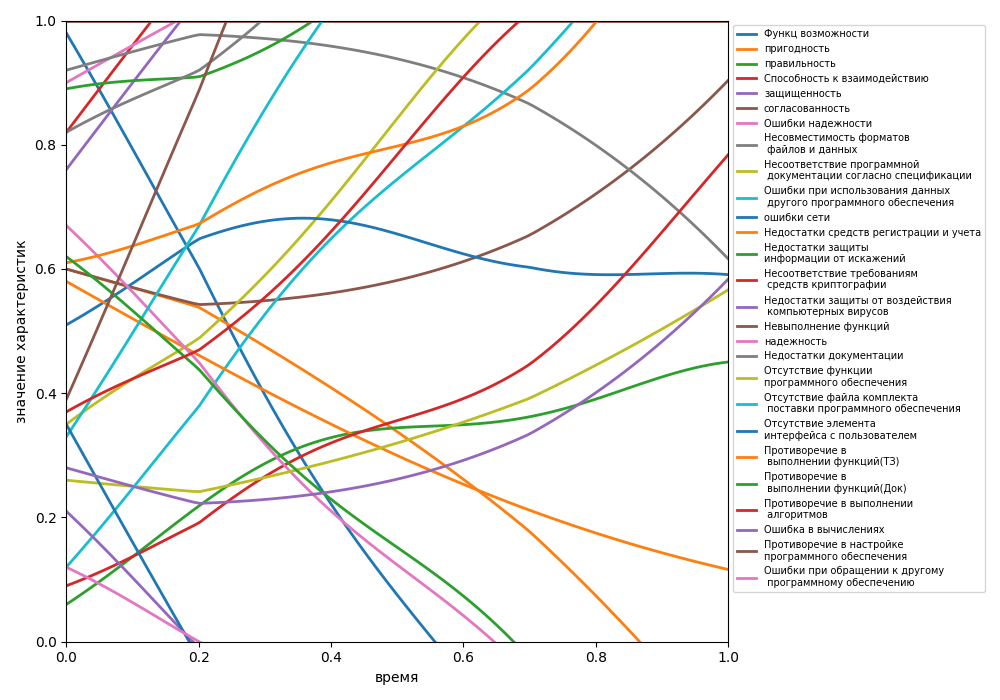
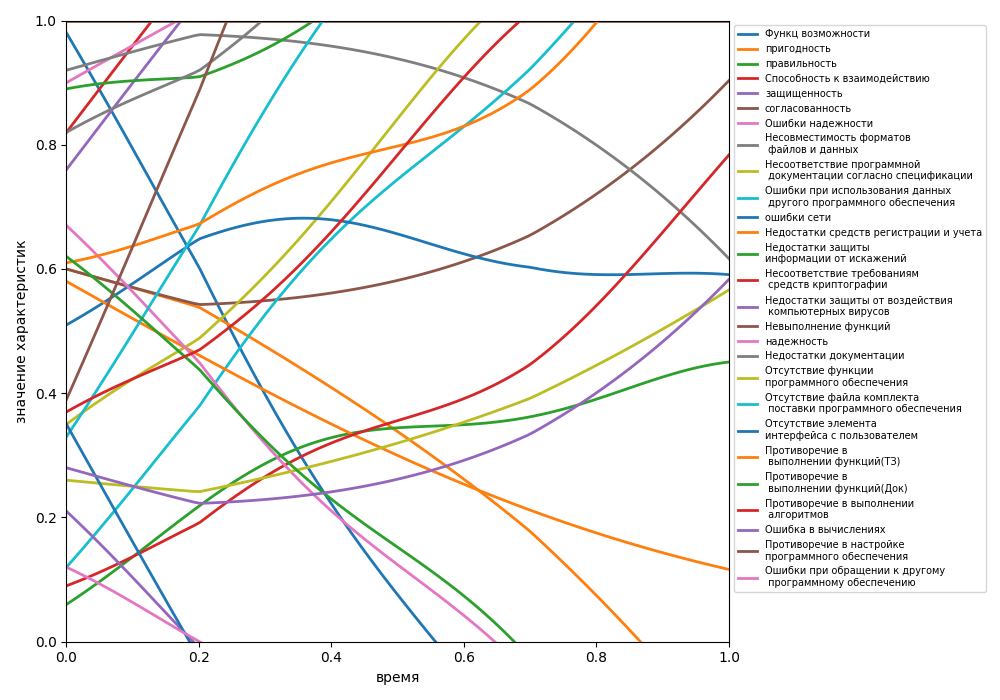
fixes

diff --git a/service.py b/service.py
@@ -36,7 +36,7 @@ class CharacteristicFromExcel:
         if len(kwargs) == 0 or kwargs["excel"] is None:
             raise ValueError("excel is None")
 
-        self.max_m = [1 for i in range(27)]
+        self.max_m = [8 for i in range(27)]
         self.start_values = list(range(27))
         self.res = {}
         self.init_chars = {}
@@ -87,7 +87,6 @@ class CharacteristicFromExcel:
                     self.d_fak.append("FaK" + str(ind + 1))
 
         def calculate(self, max_val, funcs, faks):
-            res = 0
             res_b_f = list(map(lambda x: funcs[self.funcs[x]], self.b))
             res_d_f = list(map(lambda x: funcs[self.funcs[x]], self.d))
 
@@ -111,7 +110,6 @@ class CharacteristicFromExcel:
 
         for i, char in enumerate(self.chars):
             t = np.linspace(0, 1, 110)  # vector of time
-            y0 = 1  # start value
             m_c = char.calculate(self.max_m[i], self.func_m, self.fak_f)
             init_m_param = float(init_params[char.index - 1])
             y = odeint(m_c, init_m_param, t)  # solve eq.
@@ -120,7 +118,7 @@ class CharacteristicFromExcel:
 
         return self.res
 
-    def get_graphics(self):
+    def get_graphics(self, filename):
         fig = plt.figure(figsize=(10, 7))
 
         # создаём область, в которой будет
@@ -138,7 +136,7 @@ class CharacteristicFromExcel:
         plt.legend(legend_labels, bbox_to_anchor=(1, 1),prop={"size":7})
         plt.show()
         fig.tight_layout()
-        fig.savefig('funcs.png')
+        fig.savefig(filename)
 
     def get_diag(self, t,filename):
         labels = list(self.res.keys())
@@ -154,11 +152,10 @@ class CharacteristicFromExcel:
         stats = [i[res_index] for i in self.res.values()]
         make_radar_chart('T=' + str(t),filename, start_stats, stats, labels)
 
-
-
-
 def make_radar_chart(name, filename, initialStats, stats, attribute_labels):
     labels = np.array(attribute_labels)
+
+    labels = list(map(lambda label: '\n'.join(label.replace('\n', '').split(' ')), labels))
 
     angles = np.linspace(0, 2 * np.pi, len(labels), endpoint=False)
     initialStats = np.concatenate((initialStats, [initialStats[0]]))
@@ -166,6 +163,7 @@ def make_radar_chart(name, filename, initialStats, stats, attribute_labels):
     angles = np.concatenate((angles, [angles[0]]))
 
     fig = plt.figure(figsize=(8, 8))
+    plt.tight_layout()
     ax = fig.add_subplot(111, polar=True)
     ax.plot(angles, stats, 'o-', linewidth=2)
     ax.fill(angles, stats, alpha=0.25)
@@ -175,7 +173,6 @@ def make_radar_chart(name, filename, initialStats, stats, attribute_labels):
     ax.tick_params(labelsize=6)
     ax.set_title(name)
     ax.grid(True)
-    plt.tight_layout
     fig.savefig(filename, bbox_inches='tight')
 
     return plt.show()
@@ -184,16 +181,17 @@ def make_radar_chart(name, filename, initialStats, stats, attribute_labels):
 def Q_tempalte(t, k):
     return float(k[3]) * t ** 3 + k[2] * t ** 2 + float(k[1]) * t + float(k[0])
 
-
 def fak1(t):
-    return -t ** 2 + 0.8
+    return 0.3 * t + 0.4
 
 
 def fak2(t):
-    return np.cos(1 * t) ** 2 / 2 + 0.1
-
+    return 0.6 * t + 0.2
 
 def fak3(t):
+    return np.cos(t) / 2 + 0.1
+
+def fak4(t):
     res = np.where(t < 0, -1, t)
     res = np.where(t > 1, -1, res)
     res = np.where(t <= 1, 0.9, res)
@@ -201,13 +199,12 @@ def fak3(t):
     res = np.where(t <= 0.2, 0.5, res)
     return res
 
-
-def fak4(t):
-    return np.cos(6 * t) * np.sin(3 * t) * 0.5 + 0.5
-
-
 def fak5(t):
-    return np.sqrt(t) * 0.2 + 0.1
+    res = np.where(t <= 0.6, 0.6, t)
+    res = np.where(t < 0.3, t * 2, res)
+    res = np.where(t > 0.6, -5 * t + 3.6, res)
+    
+    return res
 
 
 excel_file_path = 'tableKush.xlsx'
@@ -231,7 +228,7 @@ def get_faks_image():
     plt.plot(t, fak5(t))
 
     plt.xlabel('время')
-    plt.ylabel('значение характеристик')
+    plt.ylabel('возмущения')
 
     # показываем график
 

diff --git a/lab_ui.py b/lab_ui.py
@@ -4,6 +4,7 @@ from PyQt5.QtWidgets import QMainWindow, QLabel, QVBoxLayout, QWidget
 
 import service as s
 
+times = 0
 
 class AnotherWindow(QMainWindow):
     urla = ''
@@ -620,8 +621,10 @@ class Ui_MainWindow(object):
         values = [n.value() for n in self.inputs]
 
         self.res = s.chars.calculate(values)
-        s.chars.get_diag(self.doubleSpinBox_41.value(), 'diag.png')
-        s.chars.get_graphics()
+        global times
+        times = times + 1
+        s.chars.get_diag(self.doubleSpinBox_41.value(), 'res/diag' + str(times) + '.png')
+        s.chars.get_graphics('res/funks' + str(times) + '.png')
         s.get_faks_image()
 
     def show_diag(self):
